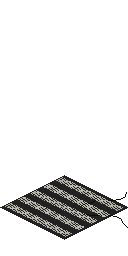
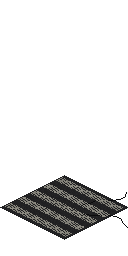
Barstow: dimmer crosswalks, second hangar walls fixed

Changed region(s): [[0.0312, 0.6875, 0.9375, 0.9375]]

diff --git a/tools/build_barstow.py b/tools/build_barstow.py
@@ -435,7 +435,7 @@ def build_base():
     # ангары (восток): первый — разграблен, во втором — гнездо
     k.building(36, 6, 44, 15, "B", floor="Ground E1_N", doors=[("w", 4, 3)], ruined=True)   # у стен C нет проломов
     k.scatter(["Object25_N", "Object26_N", "Object24_N"], 37, 7, 43, 14, 5)
-    k.building(36, 19, 44, 28, "C", floor="Ground E1_N", doors=[("w", 4, 3)])
+    k.building(36, 19, 44, 28, "D", floor="Ground E1_N", doors=[("w", 4, 3)], sign="АНГАР 2")
     k.scatter(["Object25_E", "Object26_E"], 38, 20, 43, 27, 4)
     # командный бункер: маленький, бетонный, в центре плаца у флагштока
     k.building(26, 18, 32, 23, "A", floor="Ground C1_N", doors=[("s", 3, 3)], sign="КОМАНДОВАНИЕ")

diff --git a/tools/make_iso_street.py b/tools/make_iso_street.py
@@ -189,7 +189,7 @@ def zebra(seed, along_y):
                     px, py = int(CX + (u - v) * 64), int(CY + (u + v) * 32)
                     if inside(px, py):
                         shade = random.Random(px * 31 + py).uniform(0.78, 1.0)
-                        img.set_at((px, py), (int(205 * shade), int(203 * shade), int(190 * shade), 255))
+                        img.set_at((px, py), (int(150 * shade), int(148 * shade), int(138 * shade), 255))
     return img
 
 
